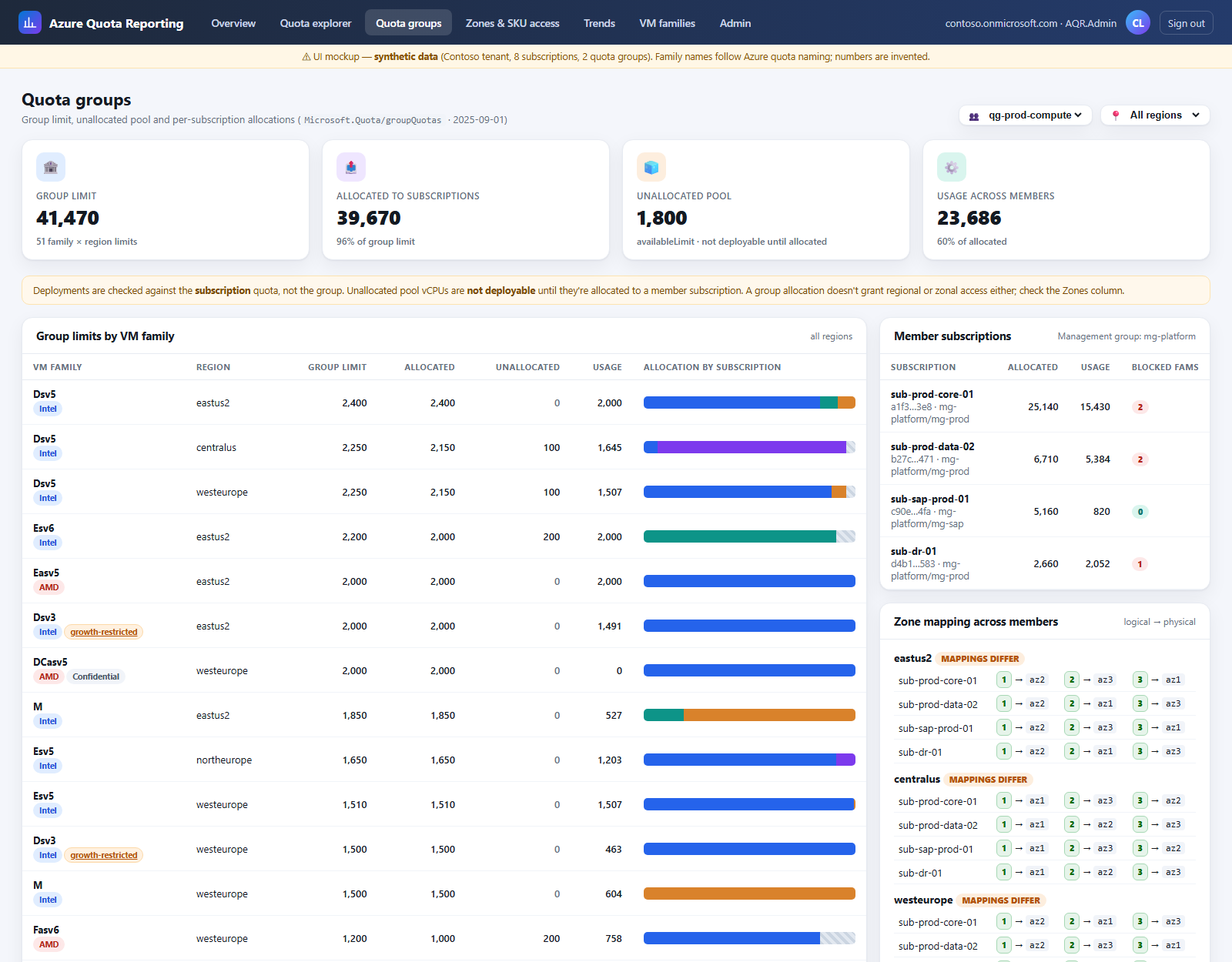
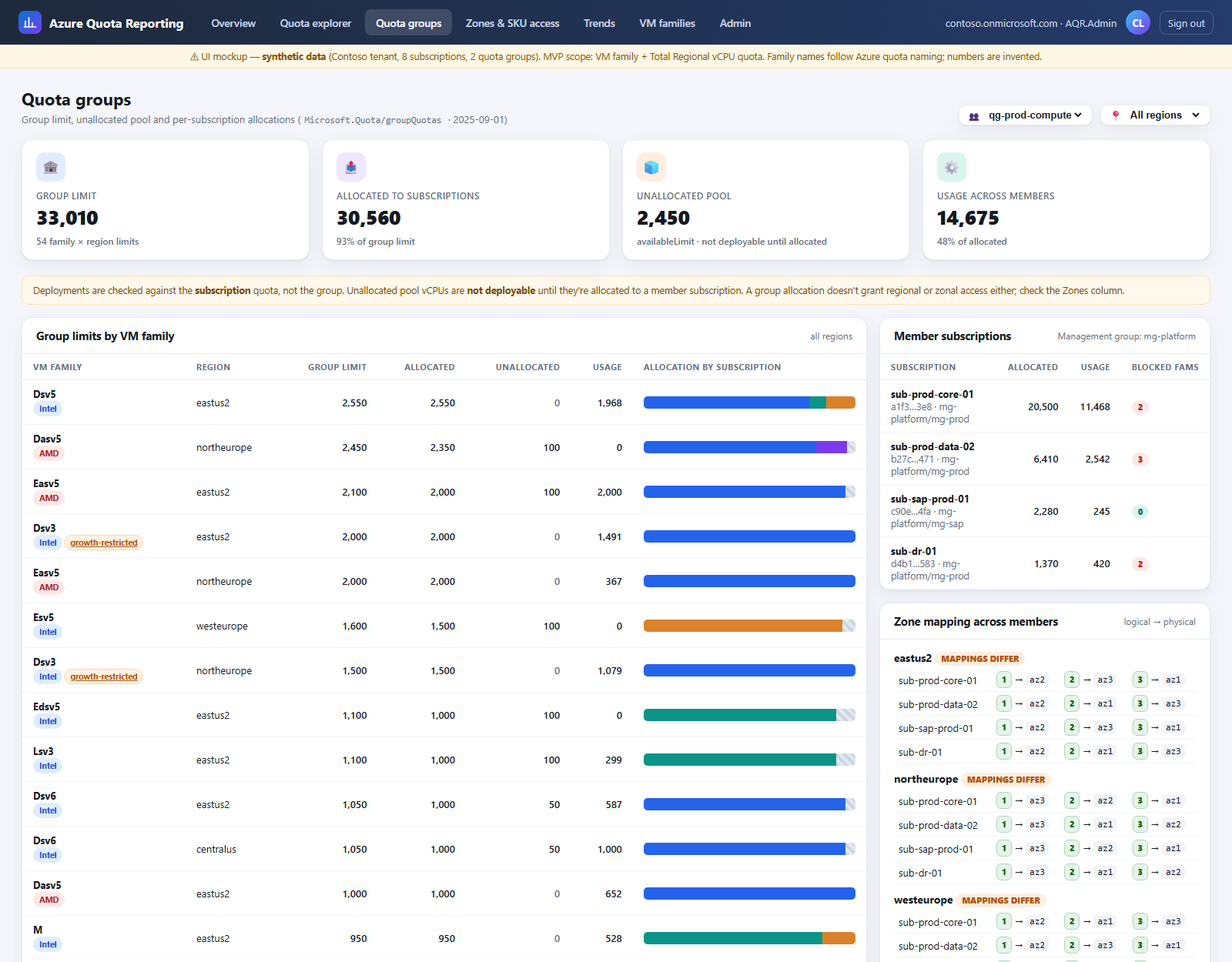
Apply design decisions: 1-year retention, write-on-change, all regions, MVP scope
- Retention 365 d analytics (Log Analytics supports up to 730 d / 12 y total)
- Write-on-change fact tables with tombstones; point-in-time 'as of' queries
- Region scope: collect all regions, measure via AQRSyncRun_CL / sizing ARG query
- MVP: VM family + Total Regional vCPUs; spot/low-priority + dedicated host -> phase 2
- Decisions table; row-level scoping options explained
- Mockup updated to match

diff --git a/docs/mockups/aqr-mockup.js b/docs/mockups/aqr-mockup.js
@@ -136,7 +136,7 @@ function zoneInfo(sub, reg, fam){
 // ---------------------------------------------------------------- quota rows (S1)
 const LIMS=[10,20,50,100,150,200,350,500,800,1000,1500,2000];
 const ROWS=[]; // family rows
-const REGROWS=[]; // cores + lowPriorityCores
+const REGROWS=[]; // cores (Total Regional vCPUs). Spot/low-priority + Dedicated Host = phase 2
 SUBS.forEach(s=>s.regions.forEach(reg=>{
   let coreUse=0, coreLim=0;
   s.fams.forEach(fam=>{
@@ -157,8 +157,6 @@ SUBS.forEach(s=>s.regions.forEach(reg=>{
   });
   const cl = Math.max(coreLim, Math.ceil(coreLim*(.55+R()*.4)/50)*50);
   REGROWS.push({sub:s.name, group:s.group, reg, geo:REGBY[reg].geo, kind:'cores', name:'Total Regional vCPUs', use:coreUse, lim:Math.max(cl,coreUse), util:pct(coreUse,Math.max(cl,coreUse))});
-  const sl=pick([100,200,500,1000]), su=Math.round(sl*R()*.7);
-  REGROWS.push({sub:s.name, group:s.group, reg, geo:REGBY[reg].geo, kind:'lowPriorityCores', name:'Total Regional Low-priority vCPUs', use:su, lim:sl, util:pct(su,sl)});
 }));
 
 // group quotas (S3): per group × region × family
@@ -216,19 +214,18 @@ const CPUCOLOR={Intel:'#2563eb',AMD:'#e0533d',Microsoft:'#0f9d58',Ampere:'#7c3ae
 
 // ---------------------------------------------------------------- OVERVIEW
 function renderOverview(){
-  const cores=REGROWS.filter(r=>r.kind==='cores'), spot=REGROWS.filter(r=>r.kind==='lowPriorityCores');
+  const cores=REGROWS.filter(r=>r.kind==='cores');
   const cU=cores.reduce((a,r)=>a+r.use,0), cL=cores.reduce((a,r)=>a+r.lim,0);
   const hot=ROWS.filter(r=>r.util>=80), full=ROWS.filter(r=>r.util>=100);
   const unalloc=GQ.reduce((a,g)=>a+g.unalloc,0);
   const blocked=ROWS.filter(r=>r.avail>0&&(r.zi.status==='RegionBlocked'||r.zi.status==='NoZones'));
   const partial=ROWS.filter(r=>r.avail>0&&r.zi.status==='PartialZones');
-  const sU=spot.reduce((a,r)=>a+r.use,0), sL=spot.reduce((a,r)=>a+r.lim,0);
   $('ov-kpis').innerHTML=[
     ['b1','🧮','Regional vCPU quota',fmt(cL),`${fmt(cU)} in use · ${pct(cU,cL).toFixed(0)}%`,''],
     ['b5','🔥','Family quotas ≥ 80%',hot.length,`${full.length} at limit · of ${ROWS.length} family quotas`,'bad'],
     ['b2','👥','Quota group pool',fmt(unalloc),'unallocated vCPUs · 2 groups · not deployable until allocated',''],
     ['b4','🚧','Quota not deployable',blocked.length,`${fmt(blocked.reduce((a,r)=>a+r.avail,0))} vCPUs available but region/zone blocked · +${partial.length} partial-zone`,'bad'],
-    ['b3','⚡','Spot / low-priority',`${pct(sU,sL).toFixed(0)}%`,`${fmt(sU)} / ${fmt(sL)} vCPUs`,''],
+    ['b3','📈','Limit changes · 30 days','14',`+${fmt(5120)} vCPUs · 9 group allocations, 5 subscription increases`,'good'],
   ].map(([b,ic,l,v,n,c])=>`<div class="kpi ${b}"><div class="ic">${ic}</div><div class="label">${l}</div><div class="val">${v}</div><div class="note ${c}">${n}</div></div>`).join('');
 
   const top=[...ROWS].sort((a,b)=>b.util-a.util||b.lim-a.lim).slice(0,12);
@@ -267,7 +264,7 @@ function renderOverview(){
 
 // ---------------------------------------------------------------- EXPLORER
 const FILTERS=[
-  {k:'kind',t:'Quota type',single:true,opts:[['Family','VM family'],['cores','Total regional vCPUs'],['lowPriorityCores','Spot / low-priority']],def:['Family']},
+  {k:'kind',t:'Quota type',single:true,opts:[['Family','VM family'],['cores','Total regional vCPUs']],def:['Family']},
   {k:'sub',t:'Subscription',opts:SUBS.map(s=>[s.name,s.name.replace('sub-','')])},
   {k:'group',t:'Quota group',opts:[...GROUPS.map(g=>[g.name,g.name]),['(none)','not in a group']]},
   {k:'geo',t:'Geography',opts:['Americas','Europe','Asia Pacific'].map(x=>[x,x])},
@@ -436,8 +433,8 @@ function zoneSelectors(){
 // ---------------------------------------------------------------- TRENDS
 let TDAYS=30;
 const TKEYS=[...ROWS].sort((a,b)=>b.util-a.util).slice(0,10);
-function series(row){ const r2=rng(row.lim*7+row.use+row.reg.length); const n=90; const use=[], lim=[]; let L=Math.round(row.lim*.6/10)*10||row.lim, u=row.use*.55;
-  const bump=[55,78]; for(let i=0;i<n;i++){ if(i===bump[0]) L=Math.round(row.lim*.8); if(i===bump[1]) L=row.lim; u=Math.min(L, Math.max(0,u+(row.use-u)*.04+(r2()-.45)*row.lim*.03)); if(i===n-1) u=row.use; use.push(Math.round(u)); lim.push(L);} return {use,lim}; }
+function series(row){ const r2=rng(row.lim*7+row.use+row.reg.length); const n=365; const use=[], lim=[]; let L=Math.round(row.lim*.6/10)*10||row.lim, u=row.use*.55;
+  const bump=[250,330]; for(let i=0;i<n;i++){ if(i===bump[0]) L=Math.round(row.lim*.8); if(i===bump[1]) L=row.lim; u=Math.min(L, Math.max(0,u+(row.use-u)*.04+(r2()-.45)*row.lim*.03)); if(i===n-1) u=row.use; use.push(Math.round(u)); lim.push(L);} return {use,lim}; }
 function renderTrends(){
   const row=TKEYS[+$('t-key').value]; const s=series(row); const n=TDAYS; const U=s.use.slice(-n), L=s.lim.slice(-n);
   const alloc = null;
@@ -452,7 +449,7 @@ function renderTrends(){
     <div class="legend" style="flex-direction:row;gap:18px;margin-top:6px"><div class="row"><span class="sw" style="background:#2563eb"></span>usage</div><div class="row"><span class="sw" style="background:#d93025"></span>subscription limit (regional)${row.group?' · allocated from '+row.group:''}</div>${alloc?'<div class="row"><span class="sw" style="background:#7c3aed"></span>allocated from quota group</div>':''}</div>
     <div class="note" style="margin-top:8px">Phase 2: projected date to reach the limit at the current 14-day growth rate.</div>`;
   const ch=[]; for(let i=1;i<s.lim.length;i++) if(s.lim[i]!==s.lim[i-1]) ch.push({i,from:s.lim[i-1],to:s.lim[i]});
-  $('t-log').innerHTML=ch.reverse().map(c=>{const d=new Date(Date.UTC(2026,9,7)-(89-c.i)*864e5).toISOString().slice(0,10);return `<div style="padding:8px 0;border-bottom:1px solid #f1f4f9"><b>${d}</b> · limit ${fmt(c.from)} → <b>${fmt(c.to)}</b> <span class="badge ok">+${fmt(c.to-c.from)}</span><div class="note">${row.group?'group allocation to subscription (GroupQuotaSubscriptionAllocation)':'subscription quota increase'}</div></div>`;}).join('')||'<div class="note">No limit changes in range.</div>';
+  $('t-log').innerHTML=ch.reverse().map(c=>{const d=new Date(Date.UTC(2026,9,7)-(s.lim.length-1-c.i)*864e5).toISOString().slice(0,10);return `<div style="padding:8px 0;border-bottom:1px solid #f1f4f9"><b>${d}</b> · limit ${fmt(c.from)} → <b>${fmt(c.to)}</b> <span class="badge ok">+${fmt(c.to-c.from)}</span><div class="note">${row.group?'group allocation to subscription (GroupQuotaSubscriptionAllocation)':'subscription quota increase'}</div></div>`;}).join('')||'<div class="note">No limit changes in range.</div>';
 }
 
 // ---------------------------------------------------------------- FAMILIES
@@ -464,14 +461,14 @@ function renderFamilies(){
 
 // ---------------------------------------------------------------- ADMIN
 function renderAdmin(){
-  $('a-kpis').innerHTML=[['b3','✅','Last full sync','13:02 UTC','07 Oct 2026 · 4 min 12 s'],['b1','🧾','Subscriptions covered','8 / 8','QuotaResources · all expected subs'],['b4','⚠','Warnings','2','see coverage gaps'],['b2','📦','Rows ingested (24 h)',fmt(48216),'AQRSubQuota_CL + 7 tables']]
+  $('a-kpis').innerHTML=[['b3','✅','Last full sync','13:02 UTC','07 Oct 2026 · 4 min 12 s'],['b1','🧾','Subscriptions covered','8 / 8','QuotaResources · all expected subs'],['b4','⚠','Warnings','2','see coverage gaps'],['b2','📦','Rows changed (24 h)',fmt(1312),`of ${fmt(52416)} keys seen · write-on-change`]]
     .map(([b,ic,l,v,n])=>`<div class="kpi ${b}"><div class="ic">${ic}</div><div class="label">${l}</div><div class="val">${v}</div><div class="note">${n}</div></div>`).join('');
-  const runs=[['13:00','SubQuota','ARG QuotaResources','8/8','2,184','0','Succeeded'],['13:01','Groups','Microsoft.Quota groupQuotas','2/2 groups','412','0','Succeeded'],['12:00','SubQuota','ARG QuotaResources','8/8','2,180','0','Succeeded'],
-    ['09:00','Groups','Microsoft.Quota groupQuotas','2/2 groups','409','3','Succeeded'],['02:00','Zones/SKUs','Resource SKUs + locations','7/8','3,912','11','Warning'],['01:00','Catalog','vm-families.json ⨝ observed','28 families','28','0','Succeeded']];
-  $('a-runs').innerHTML='<thead><tr><th>Start</th><th>Stage</th><th>Source</th><th>Coverage</th><th class="num">Rows</th><th class="num">429s</th><th>Status</th></tr></thead><tbody>'+runs.map(r=>`<tr><td>${r[0]}</td><td><b>${r[1]}</b></td><td>${r[2]}</td><td>${r[3]}</td><td class="num">${r[4]}</td><td class="num">${r[5]}</td><td>${r[6]==='Succeeded'?'<span class="badge ok">succeeded</span>':'<span class="badge warnb">warning</span>'}</td></tr>`).join('')+'</tbody>';
+  const runs=[['13:00','SubQuota','ARG QuotaResources','8/8','2,184 / 37','0','Succeeded'],['13:01','Groups','Microsoft.Quota groupQuotas','2/2 groups','412 / 3','0','Succeeded'],['12:00','SubQuota','ARG QuotaResources','8/8','2,180 / 0','0','Succeeded'],
+    ['09:00','Groups','Microsoft.Quota groupQuotas','2/2 groups','409 / 6','3','Succeeded'],['02:00','Zones/SKUs','Resource SKUs + locations','7/8','3,912 / 21','11','Warning'],['01:00','Catalog','vm-families.json ⨝ observed','28 families','28 / 0','0','Succeeded']];
+  $('a-runs').innerHTML='<thead><tr><th>Start</th><th>Stage</th><th>Source</th><th>Coverage</th><th class="num">Keys seen / changed</th><th class="num">429s</th><th>Status</th></tr></thead><tbody>'+runs.map(r=>`<tr><td>${r[0]}</td><td><b>${r[1]}</b></td><td>${r[2]}</td><td>${r[3]}</td><td class="num">${r[4]}</td><td class="num">${r[5]}</td><td>${r[6]==='Succeeded'?'<span class="badge ok">succeeded</span>':'<span class="badge warnb">warning</span>'}</td></tr>`).join('')+'</tbody>';
   $('a-gaps').innerHTML=`<div style="padding:6px 0;border-bottom:1px solid #f1f4f9"><span class="badge warnb">zones</span> <b>sub-sandbox-01</b>: Resource SKUs call returned 403 for <code>southeastasia</code>. Zone data for that sub/region is from the previous successful run (06 Oct).</div>
     <div style="padding:6px 0"><span class="badge warnb">rp</span> <b>sub-dev-shared-01</b>: <code>Microsoft.Quota</code> not registered. Required before it can join a Quota Group (<a href="https://learn.microsoft.com/azure/quotas/quota-groups" target="_blank">Learn</a>).</div>`;
-  $('a-config').innerHTML=[['Management groups','mg-contoso (root)'],['Region scope','regions with usage or group quota (11)'],['Sync interval','SubQuota 1h · Groups 4h · Zones/SKUs daily'],['Data store','Log Analytics · law-aqr-prod (retention 90 d)'],['Network Security Perimeter','nsp-aqr · <span class="badge ok">Enforced</span> · inbound: AQR subscription (MI)'],['Identity','id-aqr (UAMI) · Reader @ mg-contoso'],['Auth','Easy Auth · Entra ID · app roles AQR.Reader / AQR.Admin · secretless (MI FIC)'],['API','/api/v1 · OpenAPI at /openapi/v1.json']].map(([k,v])=>`<div>${k}</div><div>${v}</div>`).join('');
+  $('a-config').innerHTML=[['Management groups','mg-contoso (root)'],['Region scope','all regions returned by ARG · write-on-change'],['Sync interval','SubQuota 1h · Groups 4h · Zones/SKUs daily'],['Data store','Log Analytics · law-aqr-prod (analytics retention 365 d)'],['Network Security Perimeter','nsp-aqr · <span class="badge ok">Enforced</span> · inbound: AQR subscription (MI)'],['Identity','id-aqr (UAMI) · Reader @ mg-contoso'],['Auth','Easy Auth · Entra ID · app roles AQR.Reader / AQR.Admin · secretless (MI FIC)'],['API','/api/v1 · OpenAPI at /openapi/v1.json']].map(([k,v])=>`<div>${k}</div><div>${v}</div>`).join('');
 }
 
 // ---------------------------------------------------------------- wiring

diff --git a/docs/mockups/aqr-mockup.html b/docs/mockups/aqr-mockup.html
@@ -28,7 +28,7 @@
     <a class="signout" href="#">Sign out</a>
   </div>
 </header>
-<div class="mockbanner">⚠ UI mockup — <b>synthetic data</b> (Contoso tenant, 8 subscriptions, 2 quota groups). Family names follow Azure quota naming; numbers are invented.</div>
+<div class="mockbanner">⚠ UI mockup — <b>synthetic data</b> (Contoso tenant, 8 subscriptions, 2 quota groups). MVP scope: VM family + Total Regional vCPU quota. Family names follow Azure quota naming; numbers are invented.</div>
 
 <main class="wrap">
 
@@ -38,7 +38,7 @@
     <div><h1>VM quota overview</h1><div class="sub">Regional vCPU quota, zonal SKU access and Quota Groups across your management groups</div></div>
     <div class="headtools">
       <span class="scope"><span class="dot"></span>Scope: mg-contoso (root) · 8 subscriptions</span>
-      <span class="pick">🕘 <select><option>Snapshot · 07 Oct 2026 13:00 UTC</option><option>07 Oct 2026 12:00 UTC</option><option>06 Oct 2026 13:00 UTC</option></select></span>
+      <span class="pick">🕘 <select><option>As of now · synced 07 Oct 2026 13:00 UTC</option><option>As of 01 Oct 2026</option><option>As of 01 Jul 2026</option><option>As of 01 Jan 2026</option></select></span>
     </div>
   </div>
   <div class="kpis" id="ov-kpis"></div>
@@ -155,10 +155,10 @@
 <!-- ============================ TRENDS ============================ -->
 <section class="page" id="p-trends">
   <div class="pagehead">
-    <div><h1>Trends</h1><div class="sub">Usage vs limit over time from hourly snapshots (90-day retention)</div></div>
+    <div><h1>Trends</h1><div class="sub">Usage vs limit over time · write-on-change history with 1-year retention · any past date can be reported as-of</div></div>
     <div class="headtools">
       <span class="pick">🧩 <select id="t-key"></select></span>
-      <span class="seg" id="t-range"><button data-d="7">7d</button><button data-d="30" class="on">30d</button><button data-d="90">90d</button></span>
+      <span class="seg" id="t-range"><button data-d="7">7d</button><button data-d="30" class="on">30d</button><button data-d="90">90d</button><button data-d="365">1y</button></span>
     </div>
   </div>
   <div class="grid">

diff --git a/docs/ARCHITECTURE.md b/docs/ARCHITECTURE.md
@@ -39,6 +39,8 @@ by region, zone, VM family, CPU manufacturer, accelerator, generation, lifecycle
 
 **Non-goals (v1)**
 - Requesting/transferring quota (read-only first; write actions are a later phase).
+- Spot / low-priority quota (`lowPriorityCores`) and Dedicated Host quota. Phase 2 (§12).
+- Multiple tenants. v1 is **single tenant** (one Entra tenant, one set of management groups).
 - Non-compute services (Network, ML, HPC Cache, Storage, Purview via `Microsoft.Quota/usages`) —
   planned for phase 3 (§12).
 - Real-time capacity guarantees. Zonal *access* (subscription restriction) is reportable; physical
@@ -51,7 +53,7 @@ identity; nothing is scraped.
 
 | # | Source | What AQR takes from it | Call shape | Cadence (default) |
 |---|---|---|---|---|
-| S1 | **Azure Resource Graph — `QuotaResources`** table, type `microsoft.compute/locations/usages` | Per-sub, per-region usage and limit for every compute quota (`cores`, `lowPriorityCores`, `virtualMachines`, every `standard*Family`) | One paged KQL query across all in-scope subscriptions (`mv-expand properties.value`) | Hourly |
+| S1 | **Azure Resource Graph — `QuotaResources`** table, type `microsoft.compute/locations/usages` | Per-sub, per-region usage and limit for `cores` (Total Regional vCPUs) and every `standard*Family`. Other rows in the payload (`lowPriorityCores`, dedicated hosts, VM/VMSS counts) are dropped in v1 | One paged KQL query across all in-scope subscriptions (`mv-expand properties.value`) | Hourly |
 | S2 | **Compute Usages API** `GET /subscriptions/{id}/providers/Microsoft.Compute/locations/{loc}/usages` | Fallback / reconciliation for any subscription-region missing from S1 | Per sub × region | Only on gap |
 | S3 | **Quota Groups API** `Microsoft.Quota` **2025-09-01** (GA) | Groups, members, group limits, unallocated pool, per-sub allocations, group usage | MG-scoped REST (§3.1) | Every 4 h |
 | S4 | **Compute Resource SKUs API** `GET /subscriptions/{id}/providers/Microsoft.Compute/skus?$filter=location eq '{loc}'` | SKU → family mapping, vCPUs, memory, GPUs, `CpuArchitectureType`, RDMA, offered zones, **per-subscription region and zone restrictions** | Per sub × in-scope region | Daily |
@@ -173,11 +175,19 @@ checked 2026-10-07):
 - *Ingestion latency* (minutes): the UI shows "as of" from `AQRSyncRun_CL`, not wall-clock.
 - *Query latency* (~1–3 s): the app caches each query result keyed by `SnapshotId`. Data only changes
   once per sync cycle, so cache hit rates are high.
-- *Cost scales with GB ingested.* Volume controls: (a) slim typed columns; (b) region scope
-  (`AQR_REGIONS`, default = regions with any usage or non-zero group quota); (c) SKU availability
-  stored at **family** grain plus **only restricted SKU rows** (§6.3); (d) per-table retention. The
-  doc deliberately doesn't quote a dollar figure. Size it with the Azure Pricing Calculator against
-  the row counts the first sync logs in `AQRSyncRun_CL`.
+- *Cost scales with GB ingested and retained.* The main control is **write-on-change** (§9.1): a
+  quota row is written only when its usage or limit changes, so unused regions cost almost nothing
+  and **no region filter is needed** (§9.2). Also: slim typed columns, and SKU availability stored
+  at **family** grain plus only restricted SKU rows (§6.3). The doc deliberately doesn't quote a
+  dollar figure. Size it with the Azure Pricing Calculator against the measured row counts (§9.2).
+
+**Retention: 1 year minimum.** Analytics-plan tables can be kept fully queryable for up to 730 days
+and in long-term retention for up to 12 years
+([Learn: data retention](https://learn.microsoft.com/azure/azure-monitor/logs/data-retention-configure)).
+AQR sets **analytics retention = 365 days** on every `AQR*_CL` table (`AQR_RETENTION_DAYS`, default
+365, max 730). Optional total retention beyond that (`AQR_TOTAL_RETENTION_DAYS`) uses long-term
+retention, which is cheaper but needs search jobs to query. Only the first 31 days of analytics
+retention are included in the ingestion price; the rest is billed per GB per month.
 - *Query API limits* (rows/size per query): every UI query aggregates server-side and pages.
 
 **NSP configuration**
@@ -242,7 +252,7 @@ HighPerformanceCompute.
 | Scope | Tenant / management group / quota group / subscription(s) | S3, S6 |
 | Geography → Region | e.g. United States → eastus, eastus2… | S5 region metadata (`geographyGroup`, `physicalLocation`) |
 | Zone access | Regional · AllZones · PartialZones · NoZones · RegionBlocked; "must be open in zone(s) …" (logical or physical) | §6 |
-| Quota type | Family · Total regional vCPUs (`cores`) · Spot/low-priority (`lowPriorityCores`) · VM count · other | Quota name |
+| Quota type | Family · Total regional vCPUs (`cores`) | Quota name. Spot/low-priority and Dedicated Host are phase 2 |
 | VM category | `VMCategory` values above | Catalog S7 |
 | VM family / series | standardDSv5Family, standardNCADSH100v5Family, … | S1 name ↔ S4 `family` |
 | CPU manufacturer | Intel · AMD · Microsoft (Cobalt) · Ampere | Catalog S7 (name rule `a`/`p` as fallback, never sole source) |
@@ -262,31 +272,44 @@ show as `Unclassified` rather than being guessed.
 
 ## 8. Data model (Log Analytics custom tables)
 
-All tables carry `TimeGenerated`, `SnapshotId` (guid per sync cycle), `TenantId`.
+All tables carry `TimeGenerated`, `SnapshotId` (the sync cycle that wrote the row), `TenantId`.
+Fact tables are **write-on-change** (§9.1). A row means "from this time, this key had these values".
+`IsDeleted = true` is a tombstone for a key that disappeared (subscription removed from scope, family
+no longer returned).
 
-| Table | Key | Main columns | Volume control |
+| Table | Key | Main columns | Write rule |
 |---|---|---|---|
-| `AQRSubQuota_CL` | Sub, Location, QuotaName | SubscriptionName, MgPath, QuotaLocalizedName, QuotaKind (`Family`/`RegionalTotal`/`LowPriority`/`Other`), Family, Usage, Limit, Unit, QuotaGroup | Regions in scope; skip rows with Limit = 0 and Usage = 0 except `cores` |
-| `AQRGroupQuota_CL` | MgId, Group, Location, Family | GroupLimit, AvailableLimit (unallocated), AllocatedTotal, GroupUsage, MemberCount | — |
-| `AQRGroupAlloc_CL` | MgId, Group, Sub, Location, Family | QuotaAllocated, ShareableQuota | — |
-| `AQRFamilyZone_CL` | Sub, Location, Family | ZoneStatus, SkusTotal, SkusRegionOpen, OpenZonesLogical, OpenZonesPhysical, RestrictedZonesLogical, OfferedZonesLogical, ReasonCodes | Daily; regions in scope |
-| `AQRSkuRestriction_CL` | Sub, Location, Sku | Family, RestrictionType (`Location`/`Zone`), ZonesLogical, ZonesPhysical, ReasonCode | Restricted SKUs only |
-| `AQRZoneMap_CL` | Sub, Location, ZoneLogical | ZonePhysical | Daily |
-| `AQRFamily_CL` | Family | Category, CpuManufacturer, Architecture, AcceleratorType, AcceleratorVendor, AcceleratorModel, Generation, Features, Lifecycle, MinVcpu, MaxVcpu, Source | Upsert on change |
-| `AQRSyncRun_CL` | SnapshotId | Stage, StartedAt, EndedAt, Status, SubsExpected, SubsCovered, RowsWritten, Throttled, Errors | Per stage |
+| `AQRSubQuota_CL` | Sub, Location, QuotaName | SubscriptionName, MgPath, QuotaLocalizedName, QuotaKind (`Family`/`RegionalTotal`), Family, Usage, Limit, Unit, QuotaGroup, IsDeleted | On change of Usage, Limit, QuotaGroup or name |
+| `AQRGroupQuota_CL` | MgId, Group, Location, Family | GroupLimit, AvailableLimit (unallocated), AllocatedTotal, GroupUsage, MemberCount, IsDeleted | On change |
+| `AQRGroupAlloc_CL` | MgId, Group, Sub, Location, Family | QuotaAllocated, ShareableQuota, IsDeleted | On change |
+| `AQRFamilyZone_CL` | Sub, Location, Family | ZoneStatus, SkusTotal, SkusRegionOpen, OpenZonesLogical, OpenZonesPhysical, RestrictedZonesLogical, OfferedZonesLogical, ReasonCodes, IsDeleted | On change |
+| `AQRSkuRestriction_CL` | Sub, Location, Sku | Family, RestrictionType (`Location`/`Zone`), ZonesLogical, ZonesPhysical, ReasonCode, IsDeleted | Restricted SKUs only; on change; tombstone when lifted |
+| `AQRZoneMap_CL` | Sub, Location, ZoneLogical | ZonePhysical | On change (effectively once per sub) |
+| `AQRFamily_CL` | Family | Category, CpuManufacturer, Architecture, AcceleratorType, AcceleratorVendor, AcceleratorModel, Generation, Features, Lifecycle, MinVcpu, MaxVcpu, Source | On change |
+| `AQRSyncRun_CL` | SnapshotId, Stage | StartedAt, EndedAt, Status, SubsExpected, SubsCovered, RowsSeen, RowsChanged, Throttled, Errors | Every run (this is the heartbeat) |
 
-Example — the explorer's base query (current state, joined):
+All tables: analytics retention = `AQR_RETENTION_DAYS` (default **365**).
+
+Example — the explorer's base query (current state = latest row per key, tombstones dropped):
 
 ```kusto
-let snap = toscalar(AQRSyncRun_CL | where Stage == "SubQuota" and Status == "Succeeded" | top 1 by EndedAt | project SnapshotId);
+let asOf = now();                      // or a user-picked point in time, for "as of" reports
 AQRSubQuota_CL
-| where SnapshotId == snap and QuotaKind == "Family"
+| where TimeGenerated <= asOf and QuotaKind == "Family"
+| summarize arg_max(TimeGenerated, *) by SubscriptionId, Location, QuotaName
+| where not(IsDeleted)
 | join kind=leftouter (AQRFamily_CL | summarize arg_max(TimeGenerated, *) by Family) on Family
-| join kind=leftouter (AQRFamilyZone_CL | summarize arg_max(TimeGenerated, *) by SubscriptionId, Location, Family) on SubscriptionId, Location, Family
+| join kind=leftouter (AQRFamilyZone_CL | where TimeGenerated <= asOf
+                       | summarize arg_max(TimeGenerated, *) by SubscriptionId, Location, Family
+                       | where not(IsDeleted)) on SubscriptionId, Location, Family
 | where Location in ({regions}) and CpuManufacturer in ({vendors}) and ZoneStatus in ({zoneStatus})
 | extend Available = Limit - Usage, UtilPct = iff(Limit > 0, 100.0 * Usage / Limit, real(null))
 | order by UtilPct desc
 ```
+
+The same query with `asOf` set to a past date answers "what did quota look like on 1 March?" for
+any date in the retention window. That's why write-on-change is a better fit than hourly full
+snapshots for a 1-year history: point-in-time reads stay exact.
 
 User-supplied filter values are passed as **query parameters / allow-listed enums**, never
 concatenated into KQL.
@@ -299,11 +322,52 @@ every AQR_SYNC_INTERVAL (default 1h) — leader holds blob lease
   2. SubQuota     ARG QuotaResources (paged, skipToken)            → AQRSubQuota_CL
                   gap check: subs/regions missing → Compute Usages API (S2)
   3. Groups       every 4h: per MG → groups → members → limits/usages per region → AQRGroup*_CL
-  4. Zones/SKUs   daily: per sub → locations (zone map) → skus?$filter=location per region in scope
+  4. Zones/SKUs   daily: per sub → locations (zone map) → skus?$filter=location per region
                   → AQRZoneMap_CL, AQRFamilyZone_CL, AQRSkuRestriction_CL
   5. Catalog      on startup/deploy: catalog/vm-families.json ⨝ observed families → AQRFamily_CL
   6. Record       AQRSyncRun_CL per stage (+ App Insights metrics)
 ```
+
+### 9.1 Write-on-change
+
+Each stage compares what it just read against the **last values written** per key. Those are held
+in a compact state blob (`state/{stage}.json.gz`, one hash per key) in the NSP-protected storage
+account. Only keys whose values changed are sent to the Logs Ingestion API. Keys that vanished get
+a tombstone row. `AQRSyncRun_CL` records `RowsSeen` and `RowsChanged` every run, so "nothing
+changed" and "sync didn't run" never look the same.
+
+If the state blob is lost or corrupt, the next run treats every key as changed and writes one full
+baseline. That's safe, just one larger ingestion.
+
+### 9.2 Region scope — measured, not guessed
+
+You asked how we'd know which regions matter. **We can't know in advance**, and the original
+"only regions with usage" default was a guess. It would also hide exactly what capacity planning
+needs: quota sitting in regions you haven't deployed to yet. So:
+
+- **Collect every region the APIs return.** No region filter in v1. ARG `QuotaResources` returns
+  the regions it has for each subscription, and AQR stores what's returned.
+- **Write-on-change makes that cheap.** A region nobody uses has a static limit and zero usage. It's
+  written **once** at baseline, then never again until something changes. Ingestion volume is
+  driven by **how often quota actually moves**, not by how many regions exist.
+- **The real numbers come from the first sync.** `AQRSyncRun_CL` records keys seen vs. changed per
+  run. After a week, that gives a measured daily change rate to put into the Pricing Calculator.
+- **Pre-deployment sizing (optional):** this read-only ARG query, run by someone with Reader in the
+  target tenant, gives the baseline row count before anything is deployed:
+
+```kusto
+QuotaResources
+| where type =~ "microsoft.compute/locations/usages"
+| mv-expand q = properties.value
+| extend name = tostring(q.name.value), usage = tolong(q.currentValue), limit = tolong(q.limit)
+| where name =~ "cores" or name endswith "Family"
+| summarize Rows = count(), Subs = dcount(subscriptionId), Regions = dcount(location),
+            RowsWithUsage = countif(usage > 0)
+```
+
+`Rows` is the baseline write. `RowsWithUsage` approximates the keys that can change hourly; the
+rest only change on quota increases or allocations. An `AQR_REGIONS` allow-list exists as an
+**optional** override for tenants that want to exclude regions by policy. It's off by default.
 
 - **Throttling:** ARG and ARM throttle per principal. The sync uses bounded concurrency
   (`AQR_MAX_PARALLEL`, default 4), honours `Retry-After`, and backs off on `429`. ARG queries batch
@@ -312,8 +376,8 @@ every AQR_SYNC_INTERVAL (default 1h) — leader holds blob lease
   shown on the Admin page. A stage that covers less than 100 % is a **warning**, not a silent success.
   Subscriptions without `Microsoft.Quota` registration, and MGs the identity can't read, are listed
   by name.
-- **Partial failure** never overwrites last-good. The UI reads the latest **succeeded** snapshot per
-  stage and shows each stage's own "as of" time.
+- **Partial failure** never writes tombstones. A subscription or region missing from a failed or
+  partial run is treated as "not observed", not "deleted". The UI shows each stage's own "as of" time.
 - **Raw archive:** each API response page is gzipped to blob (`raw/{date}/{stage}/…`), with a retention
   policy, for audit and replay.
 - **Manual refresh:** Admins can trigger a cycle (`POST /api/v1/sync`), still lease-guarded.
@@ -355,9 +419,9 @@ aqr/
 └─ docs/
 ```
 
-`azd env` settings: `AZURE_LOCATION`, `AQR_MANAGEMENT_GROUP_IDS`, `AQR_REGIONS` (optional),
-`AQR_SYNC_INTERVAL`, `AQR_NSP_MODE` (`Learning`/`Enforced`), `AQR_ADMIN_GROUP_ID`,
-`AQR_READER_GROUP_ID`.
+`azd env` settings: `AZURE_LOCATION`, `AQR_MANAGEMENT_GROUP_IDS`, `AQR_RETENTION_DAYS` (default 365),
+`AQR_REGIONS` (optional allow-list, off by default), `AQR_SYNC_INTERVAL`, `AQR_NSP_MODE`
+(`Learning`/`Enforced`), `AQR_ADMIN_GROUP_ID`, `AQR_READER_GROUP_ID`.
 Hooks: `preprovision` checks the deployer's az context against `AZURE_SUBSCRIPTION_ID` and fails on
 mismatch. `postprovision` prints MG RBAC commands if they weren't applied and triggers the first sync.
 The Entra app registration and FIC are created with the Microsoft Graph Bicep extension. If the
@@ -367,21 +431,36 @@ deployer lacks Graph permissions, a hook script does it instead.
 
 | Phase | Content |
 |---|---|
-| **1 — VM quota MVP** | Sync S1, S3–S7; Overview, Explorer, Quota Groups, Zones, Admin pages; Entra auth; NSP; `azd up` |
+| **1 — VM quota MVP** | Sync S1, S3–S7 (family + Total Regional vCPUs); Overview, Explorer, Quota Groups, Zones, Trends (1-year history), Admin pages; Entra auth; NSP; `azd up` |
 | 1.5 — API | OpenAPI/Swagger, CSV export, service-principal access |
-| 2 — Insight | Trends/forecast to limit, Workbooks + log alerts (threshold, "quota but zone-blocked"), group-rebalance suggestions (read-only), group request history |
+| 2 — Insight | Spot/low-priority and Dedicated Host quota; forecast to limit; Workbooks + log alerts (threshold, "quota but zone-blocked"); group-rebalance suggestions (read-only); group request history |
 | 3 — Beyond compute | `Microsoft.Quota/usages` providers (Network, MachineLearningServices, HPC Cache, Storage, Purview), service-specific usages APIs where the Quota RP doesn't cover them |
 | 4 — Actions (optional) | Quota increase / group allocate via Quota API with an approval step; needs the Quota Request Operator roles |
 
-## 13. Open questions
+## 13. Decisions and open questions
 
-1. **Row-level scoping:** should a reader see all subscriptions, or only those under MGs or quota
-   groups mapped to their Entra group (the GHCP-visibility pattern)? v1 assumes app-role-only.
-2. **Tenant count:** single tenant only, or multiple tenants (Lighthouse / multi-tenant app)? v1
-   assumes **single tenant**.
-3. **Region scope default:** all regions, or only regions with usage or quota allocations? Affects
-   ingestion volume.
-4. **History retention:** 90 days interactive is assumed. Is longer needed (archive tier)?
-5. **Spot/low-priority and Dedicated Host quota:** include in v1 or phase 2?
-6. **App front door:** is a public App Service with Entra auth acceptable, or is a private endpoint
-   plus internal access required? NSP doesn't cover App Service.
+**Decided (2026-10-07)**
+
+| # | Topic | Decision |
+|---|---|---|
+| D1 | Tenants | Single tenant for now |
+| D2 | Region scope | All regions the APIs return; write-on-change keeps it cheap; measure before tuning (§9.2) |
+| D3 | History | **At least 1 year**: analytics retention 365 days on all AQR tables (§5) |
+| D4 | MVP quota types | VM family + Total Regional vCPUs only. Spot/low-priority and Dedicated Host → phase 2 |
+| D5 | Front door | Public App Service + Entra ID sign-in is acceptable for now |
+
+**Open**
+
+1. **Who sees which subscriptions (row-level scoping)?** App roles only control *whether* someone
+   can use AQR. This question is about *which data* they see once signed in. Options:
+
+   | Option | How it works | Pros | Cons |
+   |---|---|---|---|
+   | **A. Everyone sees everything** | Anyone with `AQR.Reader` sees every subscription AQR syncs | Simplest; one query path; good for a central platform/capacity team | An app team member sees other teams' subscriptions, quota and usage |
+   | **B. Admin-maintained mapping** | Admins map Entra groups → management groups / quota groups / subscriptions in an Admin page (the GHCP-visibility cost-center pattern) | Tailored views; no dependency on Azure RBAC | Someone has to maintain the mapping; it drifts from real access |
+   | **C. Mirror Azure RBAC** | AQR shows only subscriptions the signed-in user can already read in Azure (checked with their own token via ARG, cached per user) | No mapping to maintain; never shows more than the user could see in the portal anyway | Needs a delegated Azure Resource Manager permission on the app registration; per-user lookup on sign-in |
+
+   Quota data isn't secret in itself, but usage per family and region reveals what a team runs and
+   where. **A** fits if AQR's audience is the platform/capacity team. **C** fits if app teams will
+   use it too. v1 can ship with **A** and add **C** without changing the data model, because every
+   row already carries `SubscriptionId`.
